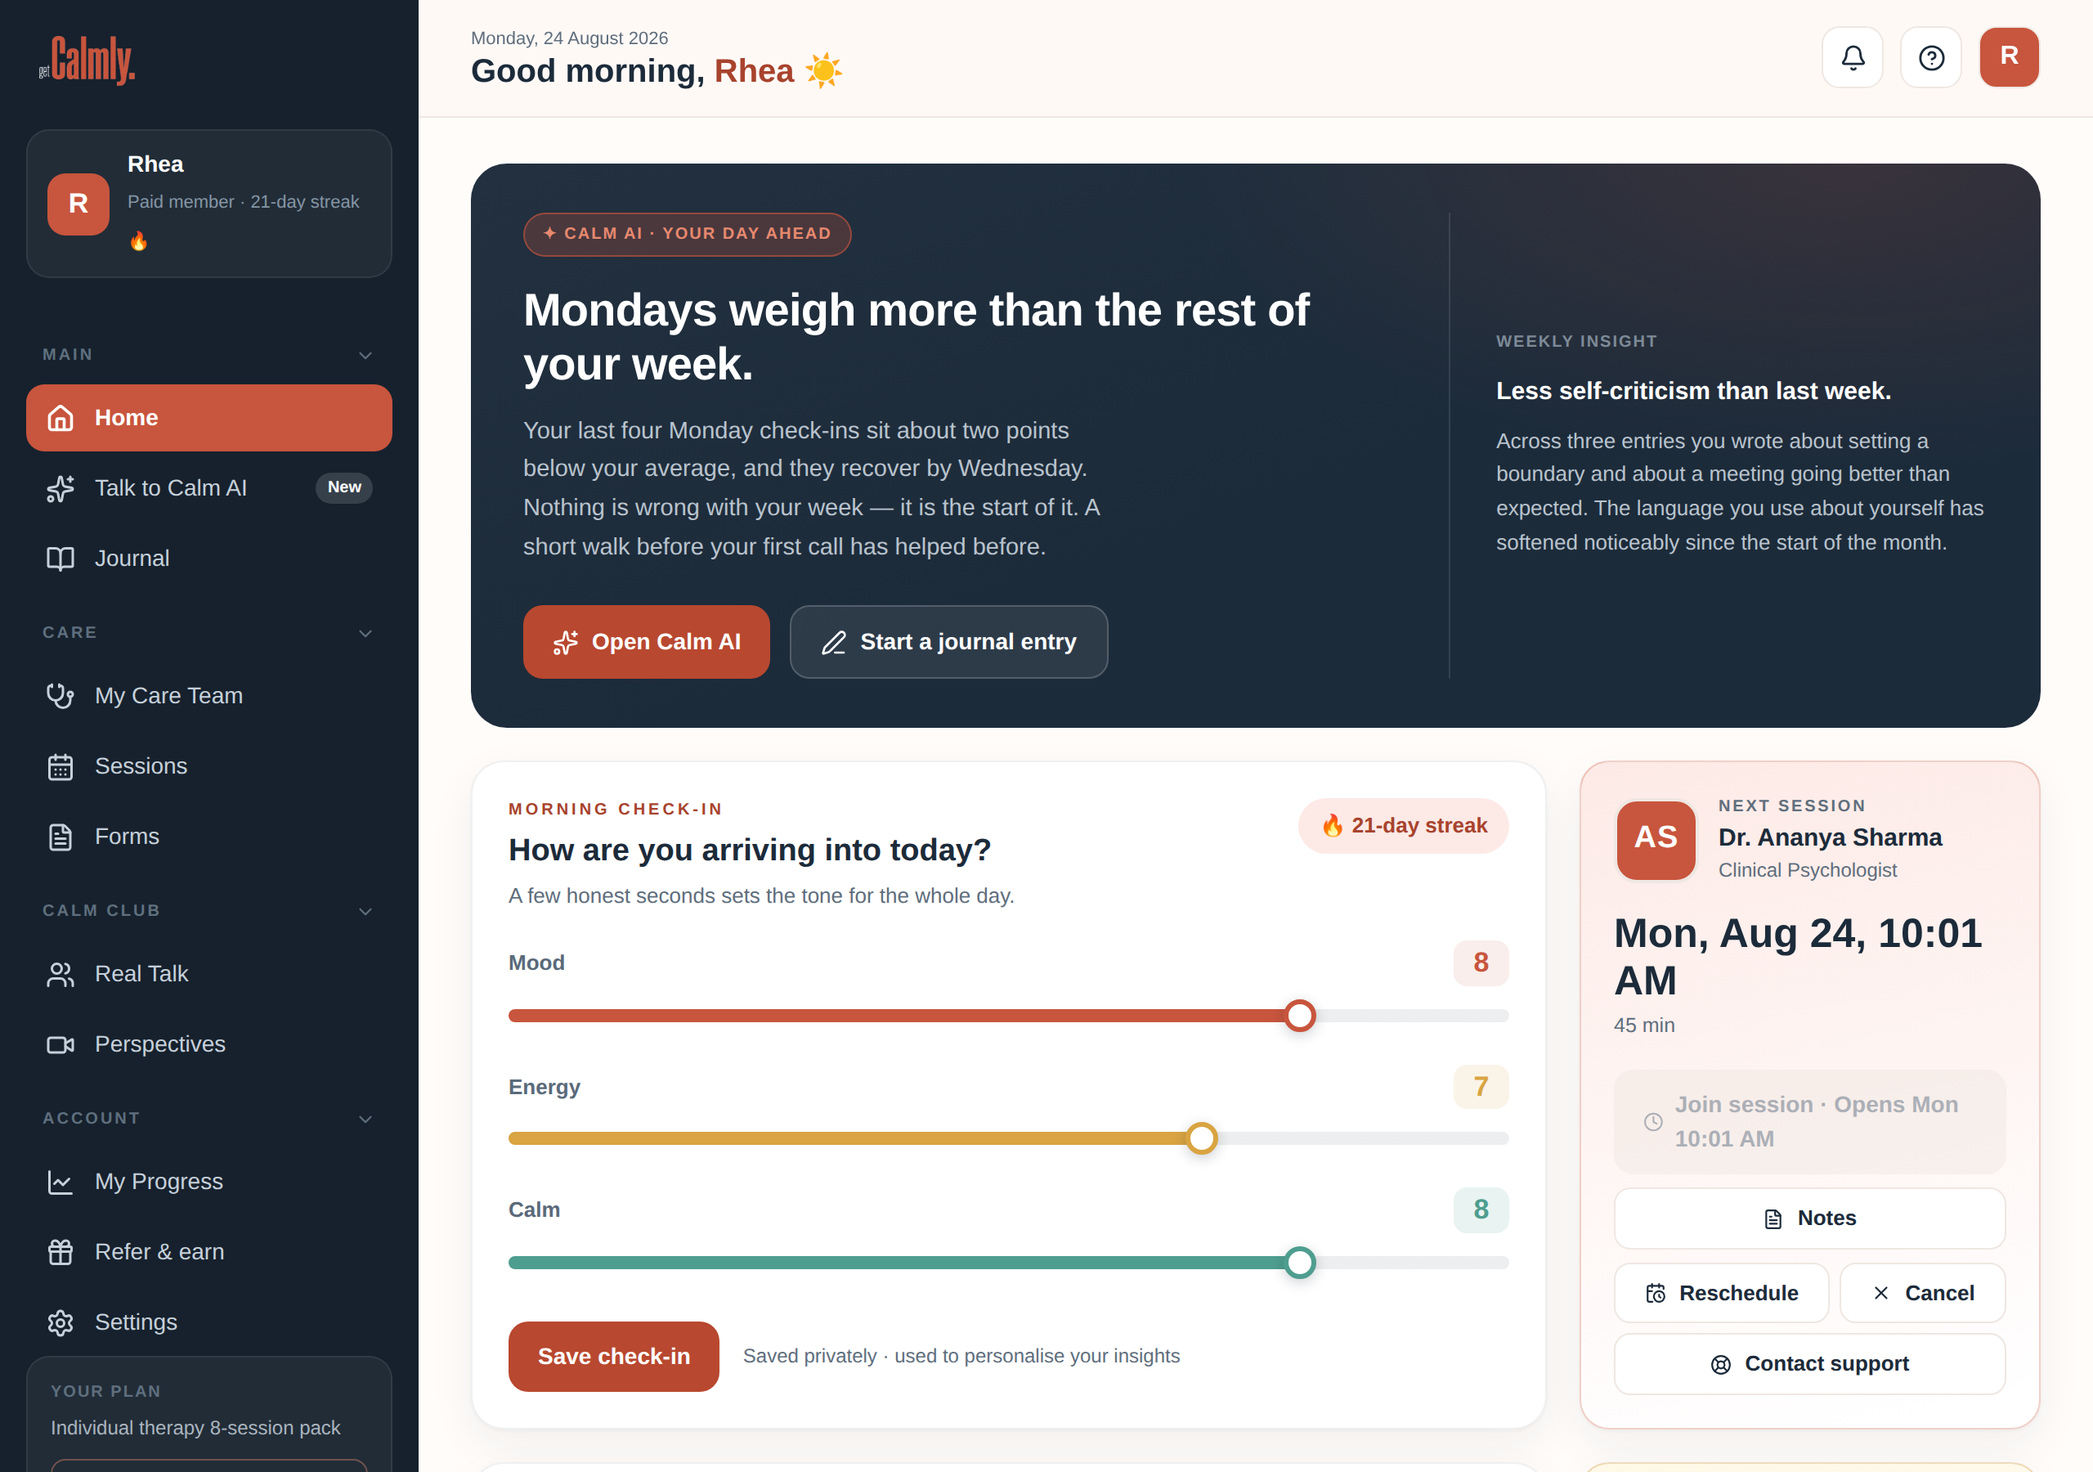
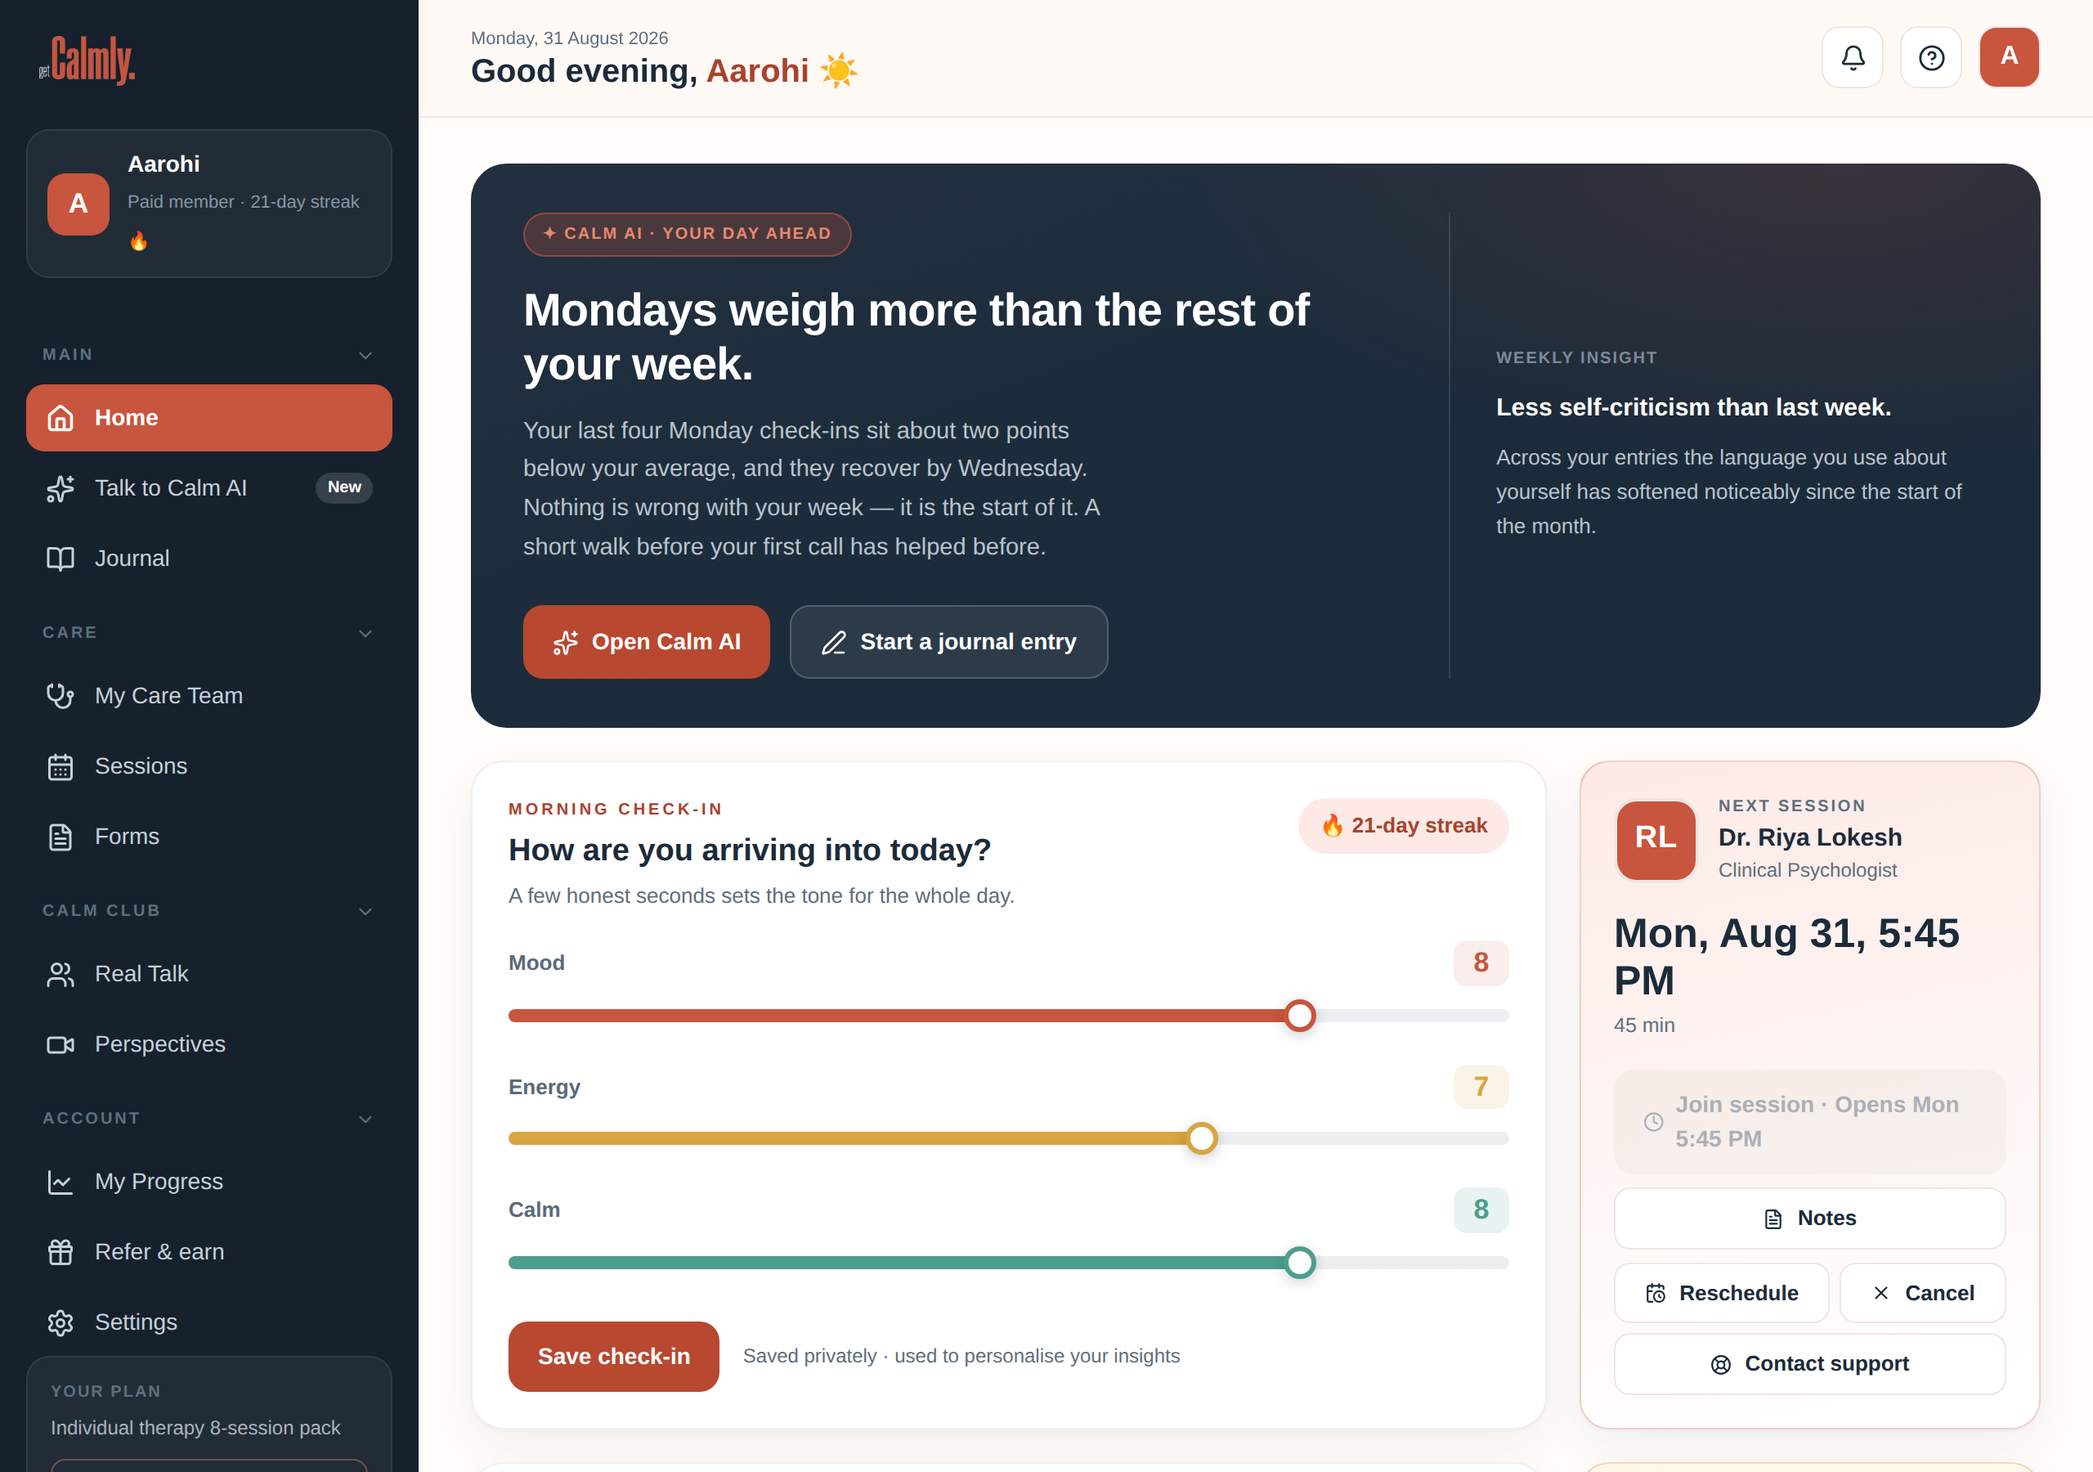
Make the reviews and community samples read like real people
The testimonials and community posts read as marketing copy — clean before/after
arcs, product features name-dropped, tidy emoji. Rewritten to sound human:
hedges ("honestly", "not gonna lie"), specific ordinary detail, caveats ("still
a work in progress", "not a magic fix — I still have off days"), and less
feature narration. The community posts are candid and a little rough rather than
neatly packaged. Same layout, names and counts; only the words changed.

Also regenerate the patient-dashboard mockups. The home preview and features
page use screenshots of the real app; the old ones were captured before the
sample-clinician rename, so they still showed "Dr. Ananya" baked into the
pixels. Recaptured from a fresh seeded member (desktop + mobile) — the next
session now reads Dr. Riya Lokesh, matching the rest of the site.

Claude-Session: https://claude.ai/code/session_01E8Spwuj17DntgraM9eiTuW

diff --git a/src/components/site/landingMarkup.ts b/src/components/site/landingMarkup.ts
@@ -201,9 +201,9 @@ export const LANDING_MARKUP = `<!-- ── HERO ── -->
       <a href="/community" class="btn-primary">Join the community →</a>
     </div>
     <div class="comm-posts reveal d1">
-      <div class="comm-post"><div class="cp-top"><div class="cp-av">M</div><div><div class="cp-nm">Meera K. <span style="font-size:9px;font-weight:800;color:var(--gold-ink);background:var(--gold-pale);padding:2px 7px;border-radius:20px;margin-left:4px;">Paid Member</span></div><div class="cp-grp">8 months in · 2 hours ago</div></div></div><div style="font-size:14px;font-weight:700;color:var(--charcoal);margin-bottom:5px;">Catastrophising every night, anyone found a way through?</div><div class="cp-text">Around 10pm my brain switches into worst-case-scenario mode. Journaling makes me spiral more. Has anything actually broken the loop for you?</div><div style="display:flex;gap:6px;margin-top:9px;flex-wrap:wrap;"><span style="font-size:10px;font-weight:600;color:var(--coral-d);background:var(--coral-pale);padding:2px 8px;border-radius:20px;">#anxiety</span><span style="font-size:10px;font-weight:600;color:var(--coral-d);background:var(--coral-pale);padding:2px 8px;border-radius:20px;">#sleep</span></div><div class="cp-acts"><span class="cp-act liked"><svg width="13" height="13" viewBox="0 0 24 24" fill="none" stroke="#C8553D" stroke-width="2" stroke-linecap="round" stroke-linejoin="round" style="vertical-align:middle;display:inline-block"><path d="m18 15-6-6-6 6"/></svg> 47 upvotes</span><span class="cp-act"><svg width="13" height="13" viewBox="0 0 24 24" fill="none" stroke="#5F6E7D" stroke-width="1.7" stroke-linecap="round" stroke-linejoin="round" style="vertical-align:middle;display:inline-block"><path d="M5 6h14a1 1 0 0 1 1 1v8a1 1 0 0 1-1 1h-8l-4 3v-3H5a1 1 0 0 1-1-1V7a1 1 0 0 1 1-1Z"/></svg> 18 replies</span></div></div>
-      <div class="comm-post"><div class="cp-top"><div class="cp-av" style="background:var(--coral-pale);color:var(--coral);">S</div><div><div class="cp-nm">Dr. Shruti A. <span style="font-size:9px;font-weight:800;color:#fff;background:var(--coral-cta);padding:2px 7px;border-radius:20px;margin-left:4px;">Therapist ✓</span></div><div class="cp-grp">Clinician · Yesterday</div></div></div><div style="font-size:14px;font-weight:700;color:var(--charcoal);margin-bottom:5px;">A gentle reminder for the 10pm spiral</div><div class="cp-text">When racing thoughts keep you up, try naming five things you can see. It pulls the mind out of the loop and back into the room. Reply if you'd like the full grounding sequence 🌿</div><div style="display:flex;gap:6px;margin-top:9px;flex-wrap:wrap;"><span style="font-size:10px;font-weight:600;color:var(--coral-d);background:var(--coral-pale);padding:2px 8px;border-radius:20px;">#sleep</span><span style="font-size:10px;font-weight:600;color:var(--coral-d);background:var(--coral-pale);padding:2px 8px;border-radius:20px;">#grounding</span></div><div class="cp-acts"><span class="cp-act liked"><svg width="13" height="13" viewBox="0 0 24 24" fill="none" stroke="#C8553D" stroke-width="2" stroke-linecap="round" stroke-linejoin="round" style="vertical-align:middle;display:inline-block"><path d="m18 15-6-6-6 6"/></svg> 126 upvotes</span><span class="cp-act"><svg width="13" height="13" viewBox="0 0 24 24" fill="none" stroke="#5F6E7D" stroke-width="1.7" stroke-linecap="round" stroke-linejoin="round" style="vertical-align:middle;display:inline-block"><path d="M5 6h14a1 1 0 0 1 1 1v8a1 1 0 0 1-1 1h-8l-4 3v-3H5a1 1 0 0 1-1-1V7a1 1 0 0 1 1-1Z"/></svg> 9 replies</span></div></div>
-      <div class="comm-post"><div class="cp-top"><div class="cp-av" style="background:var(--green-pale);color:var(--green);">A</div><div><div class="cp-nm">Arjun S. <span style="font-size:9px;font-weight:800;color:var(--charcoal);background:rgba(28,43,58,.07);padding:2px 7px;border-radius:20px;margin-left:4px;">Member</span></div><div class="cp-grp">3 days ago</div></div></div><div style="font-size:14px;font-weight:700;color:var(--charcoal);margin-bottom:5px;">First time saying my burnout out loud</div><div class="cp-text">I've pretended I'm fine for two years. Typing this is terrifying, but I'm so tired of carrying it alone. Thanks for being a place I could finally say it 🙌</div><div style="display:flex;gap:6px;margin-top:9px;flex-wrap:wrap;"><span style="font-size:10px;font-weight:600;color:var(--coral-d);background:var(--coral-pale);padding:2px 8px;border-radius:20px;">#burnout</span><span style="font-size:10px;font-weight:600;color:var(--coral-d);background:var(--coral-pale);padding:2px 8px;border-radius:20px;">#work</span></div><div class="cp-acts"><span class="cp-act liked"><svg width="13" height="13" viewBox="0 0 24 24" fill="none" stroke="#C8553D" stroke-width="2" stroke-linecap="round" stroke-linejoin="round" style="vertical-align:middle;display:inline-block"><path d="m18 15-6-6-6 6"/></svg> 58 upvotes</span><span class="cp-act"><svg width="13" height="13" viewBox="0 0 24 24" fill="none" stroke="#5F6E7D" stroke-width="1.7" stroke-linecap="round" stroke-linejoin="round" style="vertical-align:middle;display:inline-block"><path d="M5 6h14a1 1 0 0 1 1 1v8a1 1 0 0 1-1 1h-8l-4 3v-3H5a1 1 0 0 1-1-1V7a1 1 0 0 1 1-1Z"/></svg> 7 replies</span></div></div>
+      <div class="comm-post"><div class="cp-top"><div class="cp-av">M</div><div><div class="cp-nm">Meera K. <span style="font-size:9px;font-weight:800;color:var(--gold-ink);background:var(--gold-pale);padding:2px 7px;border-radius:20px;margin-left:4px;">Paid Member</span></div><div class="cp-grp">8 months in · 2 hours ago</div></div></div><div style="font-size:14px;font-weight:700;color:var(--charcoal);margin-bottom:5px;">The 10pm worst-case-scenario thing — anyone else?</div><div class="cp-text">Every night around 10 my head jumps straight to the worst version of everything. I tried journaling but honestly it just made me spiral more. What&apos;s actually helped you? Genuinely asking.</div><div style="display:flex;gap:6px;margin-top:9px;flex-wrap:wrap;"><span style="font-size:10px;font-weight:600;color:var(--coral-d);background:var(--coral-pale);padding:2px 8px;border-radius:20px;">#anxiety</span><span style="font-size:10px;font-weight:600;color:var(--coral-d);background:var(--coral-pale);padding:2px 8px;border-radius:20px;">#sleep</span></div><div class="cp-acts"><span class="cp-act liked"><svg width="13" height="13" viewBox="0 0 24 24" fill="none" stroke="#C8553D" stroke-width="2" stroke-linecap="round" stroke-linejoin="round" style="vertical-align:middle;display:inline-block"><path d="m18 15-6-6-6 6"/></svg> 47 upvotes</span><span class="cp-act"><svg width="13" height="13" viewBox="0 0 24 24" fill="none" stroke="#5F6E7D" stroke-width="1.7" stroke-linecap="round" stroke-linejoin="round" style="vertical-align:middle;display:inline-block"><path d="M5 6h14a1 1 0 0 1 1 1v8a1 1 0 0 1-1 1h-8l-4 3v-3H5a1 1 0 0 1-1-1V7a1 1 0 0 1 1-1Z"/></svg> 18 replies</span></div></div>
+      <div class="comm-post"><div class="cp-top"><div class="cp-av" style="background:var(--coral-pale);color:var(--coral);">S</div><div><div class="cp-nm">Dr. Shruti A. <span style="font-size:9px;font-weight:800;color:#fff;background:var(--coral-cta);padding:2px 7px;border-radius:20px;margin-left:4px;">Therapist ✓</span></div><div class="cp-grp">Clinician · Yesterday</div></div></div><div style="font-size:14px;font-weight:700;color:var(--charcoal);margin-bottom:5px;">A small thing for the late-night spiral</div><div class="cp-text">If your thoughts race at night, try naming five things you can actually see in the room — out loud. Sounds too simple to work, but it pulls you back out of your head. Happy to share the longer version, just reply.</div><div style="display:flex;gap:6px;margin-top:9px;flex-wrap:wrap;"><span style="font-size:10px;font-weight:600;color:var(--coral-d);background:var(--coral-pale);padding:2px 8px;border-radius:20px;">#sleep</span><span style="font-size:10px;font-weight:600;color:var(--coral-d);background:var(--coral-pale);padding:2px 8px;border-radius:20px;">#grounding</span></div><div class="cp-acts"><span class="cp-act liked"><svg width="13" height="13" viewBox="0 0 24 24" fill="none" stroke="#C8553D" stroke-width="2" stroke-linecap="round" stroke-linejoin="round" style="vertical-align:middle;display:inline-block"><path d="m18 15-6-6-6 6"/></svg> 126 upvotes</span><span class="cp-act"><svg width="13" height="13" viewBox="0 0 24 24" fill="none" stroke="#5F6E7D" stroke-width="1.7" stroke-linecap="round" stroke-linejoin="round" style="vertical-align:middle;display:inline-block"><path d="M5 6h14a1 1 0 0 1 1 1v8a1 1 0 0 1-1 1h-8l-4 3v-3H5a1 1 0 0 1-1-1V7a1 1 0 0 1 1-1Z"/></svg> 9 replies</span></div></div>
+      <div class="comm-post"><div class="cp-top"><div class="cp-av" style="background:var(--green-pale);color:var(--green);">A</div><div><div class="cp-nm">Arjun S. <span style="font-size:9px;font-weight:800;color:var(--charcoal);background:rgba(28,43,58,.07);padding:2px 7px;border-radius:20px;margin-left:4px;">Member</span></div><div class="cp-grp">3 days ago</div></div></div><div style="font-size:14px;font-weight:700;color:var(--charcoal);margin-bottom:5px;">First time actually admitting this</div><div class="cp-text">I&apos;ve told everyone I&apos;m fine for about two years. I&apos;m not. Typing this with my heart going, but I&apos;m just tired of carrying it on my own. Thanks for being somewhere I could finally say it.</div><div style="display:flex;gap:6px;margin-top:9px;flex-wrap:wrap;"><span style="font-size:10px;font-weight:600;color:var(--coral-d);background:var(--coral-pale);padding:2px 8px;border-radius:20px;">#burnout</span><span style="font-size:10px;font-weight:600;color:var(--coral-d);background:var(--coral-pale);padding:2px 8px;border-radius:20px;">#work</span></div><div class="cp-acts"><span class="cp-act liked"><svg width="13" height="13" viewBox="0 0 24 24" fill="none" stroke="#C8553D" stroke-width="2" stroke-linecap="round" stroke-linejoin="round" style="vertical-align:middle;display:inline-block"><path d="m18 15-6-6-6 6"/></svg> 58 upvotes</span><span class="cp-act"><svg width="13" height="13" viewBox="0 0 24 24" fill="none" stroke="#5F6E7D" stroke-width="1.7" stroke-linecap="round" stroke-linejoin="round" style="vertical-align:middle;display:inline-block"><path d="M5 6h14a1 1 0 0 1 1 1v8a1 1 0 0 1-1 1h-8l-4 3v-3H5a1 1 0 0 1-1-1V7a1 1 0 0 1 1-1Z"/></svg> 7 replies</span></div></div>
     </div>
   </div>
 </section>
@@ -214,10 +214,10 @@ export const LANDING_MARKUP = `<!-- ── HERO ── -->
   <h2 class="sec-h2 reveal">Don't take our word for it.<br><span>Take theirs.</span></h2>
   <div class="testi-marquee reveal">
   <div class="t3-grid" id="testi-track">
-    <div class="testi-card reveal" style="border-color:rgba(200,85,61,.15);"><div class="stars">★★★★★</div><div class="testi-q">I'd been carrying something heavy for so long I forgot it was there. Dr. Riya Lokesh helped me put it down. And when I reached out to Calm AI at midnight not knowing what to say, it already knew exactly where I was.</div><div class="testi-auth"><div class="testi-av">S</div><div><div class="testi-nm">Sana R., 28</div><div class="testi-dt">Software engineer · 4 months in</div></div></div></div>
-    <div class="testi-card reveal d1"><div class="stars">★★★★★</div><div class="testi-q">I didn't believe app-based therapy could be real. Then Dr. Riya Lokesh read my journal brief before our second session and opened with exactly the right question. That was it for me.</div><div class="testi-auth"><div class="testi-av" style="background:var(--green-pale);color:var(--green);">K</div><div><div class="testi-nm">Karan M., 34</div><div class="testi-dt">Finance · 7 months in</div></div></div></div>
-    <div class="testi-card reveal d2"><div class="stars">★★★★★</div><div class="testi-q">Week 3, getCalmly flagged that my anxiety spiked every Sunday. I knew something was off on Sundays. I just didn't know that's what it was. Seeing it in data made it real, and fixable.</div><div class="testi-auth"><div class="testi-av" style="background:#EEF0FB;color:#7B7FCC;">A</div><div><div class="testi-nm">Aditya S., 26</div><div class="testi-dt">Design student · 2 months in</div></div></div></div>
-    <div class="testi-card reveal d3"><div class="stars">★★★★★</div><div class="testi-q">The first honest hour I'd had in years. I stopped performing "fine" for everyone, and for once someone actually stayed with me through it.</div><div class="testi-auth"><div class="testi-av" style="background:var(--coral-pale);color:var(--coral);">N</div><div><div class="testi-nm">Neha T., 31</div><div class="testi-dt">Teacher · 5 months in</div></div></div></div>
+    <div class="testi-card reveal" style="border-color:rgba(200,85,61,.15);"><div class="stars">★★★★★</div><div class="testi-q">Honestly I expected to do one session and quietly disappear. I didn&apos;t. My therapist actually remembered the small stuff I&apos;d mentioned weeks earlier, so I wasn&apos;t re-explaining my whole life every time. That&apos;s the bit that kept me coming back.</div><div class="testi-auth"><div class="testi-av">S</div><div><div class="testi-nm">Sana R., 28</div><div class="testi-dt">Software engineer · 4 months in</div></div></div></div>
+    <div class="testi-card reveal d1"><div class="stars">★★★★★</div><div class="testi-q">Wasn&apos;t sure therapy over an app could feel like anything real. First couple of sessions were a bit awkward, not gonna lie. By the third I was saying things out loud I&apos;d never told anyone. Still a work in progress, but I&apos;m in a much better place than I was in January.</div><div class="testi-auth"><div class="testi-av" style="background:var(--green-pale);color:var(--green);">K</div><div><div class="testi-nm">Karan M., 34</div><div class="testi-dt">Finance · 7 months in</div></div></div></div>
+    <div class="testi-card reveal d2"><div class="stars">★★★★★</div><div class="testi-q">It&apos;s not a magic fix — I still have off days. But it helped me spot the pattern: my Sundays were quietly wrecking my whole week. Sounds like a small thing. Honestly just naming it made it manageable.</div><div class="testi-auth"><div class="testi-av" style="background:#EEF0FB;color:#7B7FCC;">A</div><div><div class="testi-nm">Aditya S., 26</div><div class="testi-dt">Design student · 2 months in</div></div></div></div>
+    <div class="testi-card reveal d3"><div class="stars">★★★★★</div><div class="testi-q">I&apos;d been &ldquo;fine&rdquo; for everyone for years. This was the first time in ages someone just let me not be — no script, no rushing me. I cried in the first session and left lighter. If you&apos;re on the fence, just try it.</div><div class="testi-auth"><div class="testi-av" style="background:var(--coral-pale);color:var(--coral);">N</div><div><div class="testi-nm">Neha T., 31</div><div class="testi-dt">Teacher · 5 months in</div></div></div></div>
   </div>
   </div>
 </section>
